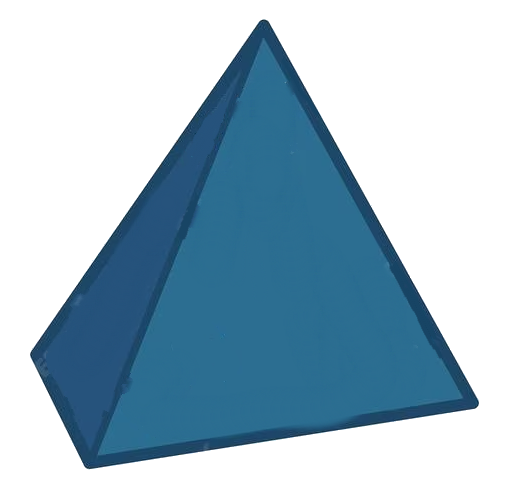
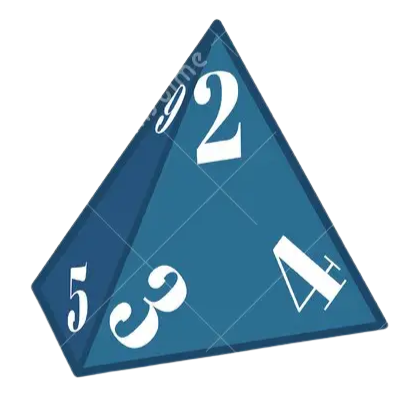
Rolar dados - imagens e labels Alert confimation

Changed region(s): [[0.0603, 0.0302, 0.995, 0.9648], [0.5427, 0.4523, 0.5729, 0.4824], [0.5126, 0.4824, 0.5427, 0.5126]]

diff --git a/src/main/java/com/elixir/controller/RollDiceController.java b/src/main/java/com/elixir/controller/RollDiceController.java
@@ -1,0 +1,154 @@
+package com.elixir.controller;
+
+import com.elixir.controller.abstractControllers.MenuController;
+import javafx.event.ActionEvent;
+import javafx.fxml.FXML;
+import javafx.scene.control.*;
+import javafx.collections.FXCollections;
+import javafx.collections.ObservableList;
+import javafx.scene.control.ChoiceBox;
+import javafx.scene.image.Image;
+import javafx.scene.image.ImageView;
+import javafx.scene.layout.HBox;
+import javafx.scene.paint.Color;
+import javafx.scene.text.Font;
+
+import java.lang.Math;
+import java.util.Objects;
+
+public class RollDiceController extends MenuController {
+
+    public HBox HBoxDiceValue;
+    @FXML
+    private ChoiceBox<Integer> diceType;
+    @FXML
+    private ImageView diceImage;
+    @FXML
+    private Spinner<Integer> diceAmount;
+    @FXML
+    private Button rollDiceButton;
+    @FXML
+    private Label diceValue;
+    @FXML
+    private TextField diceBonus;
+
+    @FXML
+    public void initialize() {
+        super.initialize();
+
+        ObservableList<Integer> diceOptions = FXCollections.observableArrayList(4, 6, 8, 12, 20, 100);
+        diceType.getItems().addAll(diceOptions);
+
+        SpinnerValueFactory<Integer> valueFactoryAmount = new SpinnerValueFactory.IntegerSpinnerValueFactory(1, 20, 1);
+        diceAmount.setValueFactory(valueFactoryAmount);
+        diceAmount.setEditable(true);
+
+        diceAmount.getEditor().textProperty().addListener((observable, oldValue, newValue) -> {
+            if (!newValue.matches("\\d*")) {
+                diceAmount.getEditor().setText(oldValue);
+            } else {
+                int value = 1;
+                try {
+                    value = Integer.parseInt(newValue);
+                } catch (Exception ignored) {
+                }
+                if (value < 1 || value > 20) {
+                    diceAmount.getEditor().setText(oldValue);
+                }
+            }
+        });
+
+        diceBonus.textProperty().addListener((object, oldValue, newValue) -> {
+            if (newValue.length() > 100 || !newValue.matches("-?\\d*")) {
+                diceBonus.textProperty().setValue(oldValue);
+            } else {
+                diceBonus.textProperty().setValue(newValue);
+            }
+        });
+
+    }
+
+    @FXML
+    public void rollDiceButtonOnAction(ActionEvent event) {
+        if (HBoxDiceValue.getChildren().size() > 1){
+            HBoxDiceValue.getChildren().clear();
+        }
+
+        diceValue.setTextFill(Color.BLACK);
+        int total = 0;
+
+        Integer selectedValueDiceType = diceType.getValue();
+
+        diceImage.setImage(new Image("/media/d" + selectedValueDiceType + ".png"));
+
+        int numberOfRolls = diceAmount.getValue();
+
+        if(diceBonus.getText().isEmpty() || diceBonus.getText().isBlank()){diceBonus.setText("0");}
+        int numDiceBonus = Integer.parseInt(diceBonus.getText());
+
+        for (int i = 0; i < numberOfRolls; i++) {
+            int diceResult = (int) (1 + Math.random() * selectedValueDiceType);
+            total += diceResult + Integer.parseInt(diceBonus.getText());
+
+            if (numDiceBonus == 0 && numberOfRolls == 1)
+                break;
+
+            Label diceLabel = new Label();
+            diceLabel.setFont(new Font("System Bold", 19.0));
+            if (diceResult == 1) {
+                diceLabel.setTextFill(Color.RED);
+            } else if (diceResult == selectedValueDiceType) {
+                diceLabel.setTextFill(Color.GREEN);
+            }
+            diceLabel.setText(Integer.toString(diceResult));
+            HBoxDiceValue.getChildren().add(diceLabel);
+
+            if (i != numberOfRolls - 1) {
+                Label plusLabel = new Label();
+                plusLabel.setFont(new Font("System Bold", 19.0));
+                plusLabel.setTextFill(Color.BLACK);
+                plusLabel.setText("+");
+                HBoxDiceValue.getChildren().add(plusLabel);
+            }
+
+        }
+
+
+        if (numDiceBonus != 0 || numberOfRolls > 1){
+
+            Label equalsLabel = new Label();
+            equalsLabel.setFont(new Font("System Bold", 19.0));
+            equalsLabel.setTextFill(Color.BLACK);
+            if (numDiceBonus > 0){
+                Label bonusLabel = new Label();
+                bonusLabel.setFont(new Font("System Bold", 19.0));
+                bonusLabel.setTextFill(Color.GREEN);
+                bonusLabel.setText(" (+" + numDiceBonus + ")");
+                HBoxDiceValue.getChildren().add(bonusLabel);
+            } else if (numDiceBonus < 0){
+                Label bonusLabel = new Label();
+                bonusLabel.setFont(new Font("System Bold", 19.0));
+                bonusLabel.setTextFill(Color.RED);
+                bonusLabel.setText(" (+" + numDiceBonus + ")");
+                HBoxDiceValue.getChildren().add(bonusLabel);
+            }
+
+            equalsLabel.setTextFill(Color.BLACK);
+            equalsLabel.setText("  =");
+
+            HBoxDiceValue.getChildren().add(equalsLabel);
+        }
+
+        System.out.println(total);
+        if(total <= 1){
+            diceValue.setTextFill(Color.RED);
+        }
+        else if(total >= selectedValueDiceType + numDiceBonus){
+            diceValue.setTextFill(Color.GREEN);
+        }
+        HBoxDiceValue.getChildren().remove(diceValue);
+        HBoxDiceValue.getChildren().add(diceValue);
+        diceValue.setText(Integer.toString(total));
+    }
+
+}

diff --git a/src/main/java/com/elixir/controller/abstractControllers/MenuController.java b/src/main/java/com/elixir/controller/abstractControllers/MenuController.java
@@ -2,14 +2,18 @@ package com.elixir.controller.abstractControllers;
 
 import com.elixir.MainApp;
 import com.elixir.controller.objects.SideMenuObject;
+import com.elixir.manager.ObjectSaveManager;
 import com.elixir.manager.PaneManager;
+import com.elixir.model.User;
 import javafx.event.ActionEvent;
 import javafx.fxml.FXML;
 import javafx.fxml.FXMLLoader;
+import javafx.scene.control.Alert;
 import javafx.scene.control.Button;
 import javafx.scene.layout.AnchorPane;
 import javafx.scene.layout.HBox;
 import javafx.scene.layout.VBox;
+import javafx.scene.text.Text;
 
 import java.io.IOException;
 
@@ -49,6 +53,29 @@ public class MenuController {
         } catch (IOException e) {
             throw new RuntimeException(e);
         }
+        ObjectSaveManager reader = new ObjectSaveManager();
+        User user = (User) reader.getObject("user");
+
+        Text username = ((Text) ((HBox) header.getChildren().get(2)).getChildren().get(0));
+        username.setText(user.getUsername());
+
+        HBox hboxUser = ((HBox) header.getChildren().get(2));
+        hboxUser.setOnMouseClicked(mouseEvent -> {
+            Alert alert = new Alert(Alert.AlertType.CONFIRMATION);
+            alert.setTitle("Sair");
+            alert.setHeaderText("SAIR DA CONTA");
+            alert.setContentText("Tem certeza que deseja sair da sua conta?");
+
+            alert.showAndWait().ifPresent(response -> {
+                if (response.getText().equals("OK")){
+                    reader.cleanObjects();
+                    PaneManager manager = new PaneManager();
+                    manager.openPane("initialScreenPane");
+                }
+            });
+
+        });
+
         AnchorPane.setLeftAnchor(header, 0.0);
         AnchorPane.setTopAnchor(header, 0.0);
         AnchorPane.setRightAnchor(header, 0.0);

diff --git a/src/main/java/com/elixir/MainApp.java b/src/main/java/com/elixir/MainApp.java
@@ -1,6 +1,8 @@
 package com.elixir;
 
 import com.elixir.manager.ObjectSaveManager;
+import com.elixir.manager.PaneManager;
+import com.elixir.model.User;
 import javafx.application.Application;
 import javafx.fxml.FXMLLoader;
 import javafx.scene.Parent;
@@ -47,11 +49,16 @@ public class MainApp extends Application {
     }
 
     public static void main(String[] args) {
-        ObjectSaveManager saver = new ObjectSaveManager();
-        saver.cleanObjects();
-
         if (args.length != 0){
             root = args[0];
+        }
+
+        ObjectSaveManager saveManager = new ObjectSaveManager();
+        User user = (User) saveManager.getObject("user");
+
+        if (user != null && user.isVerify()) {
+            System.out.println(user);
+            root = "startScreenPane";
         }
 
         launch(args);

diff --git a/src/main/java/com/elixir/controller/InitialScreenController.java b/src/main/java/com/elixir/controller/InitialScreenController.java
@@ -1,6 +1,8 @@
 package com.elixir.controller;
 
+import com.elixir.manager.ObjectSaveManager;
 import com.elixir.manager.PaneManager;
+import com.elixir.model.User;
 import javafx.event.ActionEvent;
 import javafx.fxml.FXML;
 import javafx.scene.Scene;
@@ -14,6 +16,10 @@ public class InitialScreenController {
 
     @FXML
     private Button logonButton;
+
+    @FXML
+    void initialize(){
+    }
 
     @FXML
     void loginButtonAction(ActionEvent event) {

diff --git a/src/main/java/com/elixir/controller/LoginController.java b/src/main/java/com/elixir/controller/LoginController.java
@@ -83,6 +83,10 @@ public class LoginController {
             errorLabel.setTextFill(Color.RED);
             errorLabel.setText(exception.getMessage());
             throw exception;
+        } catch (NullPointerException exception){
+            errorLabel.setTextFill(Color.RED);
+            errorLabel.setText("Verifique sua conexão");
+            throw exception;
         }
 
         ObjectSaveManager saveManager = new ObjectSaveManager();

diff --git a/src/main/java/com/elixir/controller/NewFolderCharactersController.java b/src/main/java/com/elixir/controller/NewFolderCharactersController.java
@@ -14,7 +14,7 @@ import javafx.scene.layout.AnchorPane;
 import java.sql.SQLException;
 import java.util.Map;
 
-public class newFolderCharactersController extends MenuController {
+public class NewFolderCharactersController extends MenuController {
 
     @FXML
     private AnchorPane anchorRoot;

diff --git a/src/main/java/com/elixir/manager/ObjectSaveManager.java b/src/main/java/com/elixir/manager/ObjectSaveManager.java
@@ -42,8 +42,6 @@ public class ObjectSaveManager {
         System.out.println("Map limpo");
     }
 
-
-
     private void saveMapToFile() {
         try (ObjectOutputStream outputStream = new ObjectOutputStream(new FileOutputStream("object.bin"))) {
             outputStream.writeObject(map);

diff --git a/src/main/java/com/elixir/controller/NewFolderNameController.java b/src/main/java/com/elixir/controller/NewFolderNameController.java
@@ -15,7 +15,7 @@ import javafx.scene.layout.AnchorPane;
 import java.sql.SQLException;
 import java.util.Map;
 
-public class newFolderNameController extends MenuController {
+public class NewFolderNameController extends MenuController {
 
     @FXML
     private AnchorPane anchorRoot;
